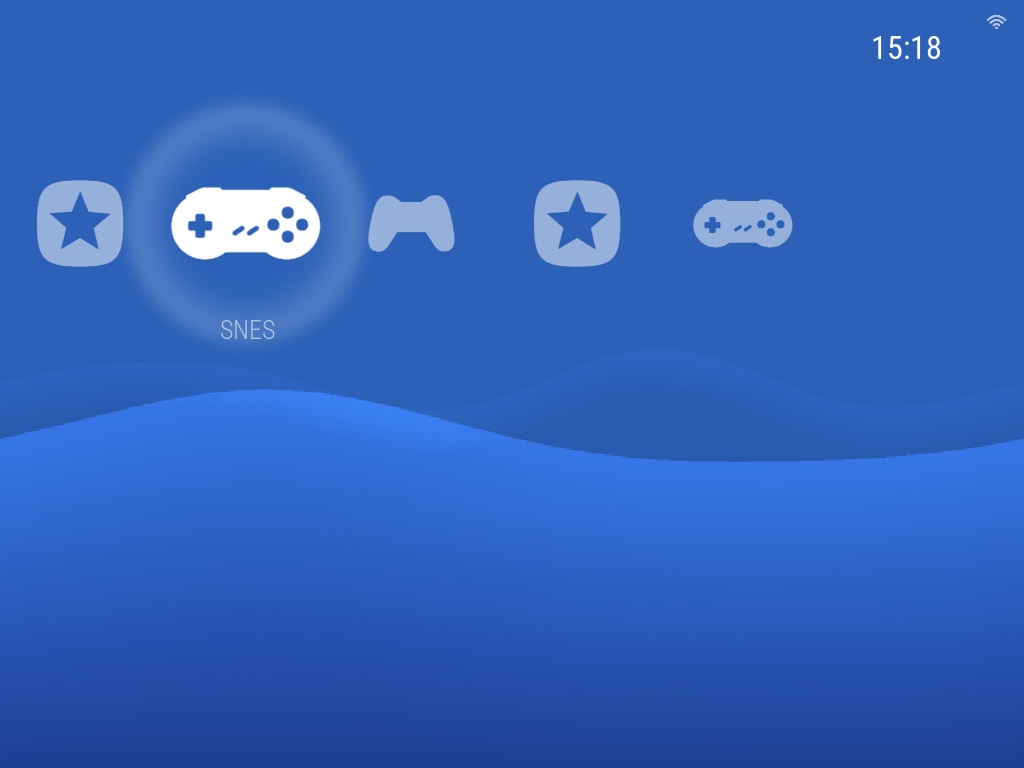
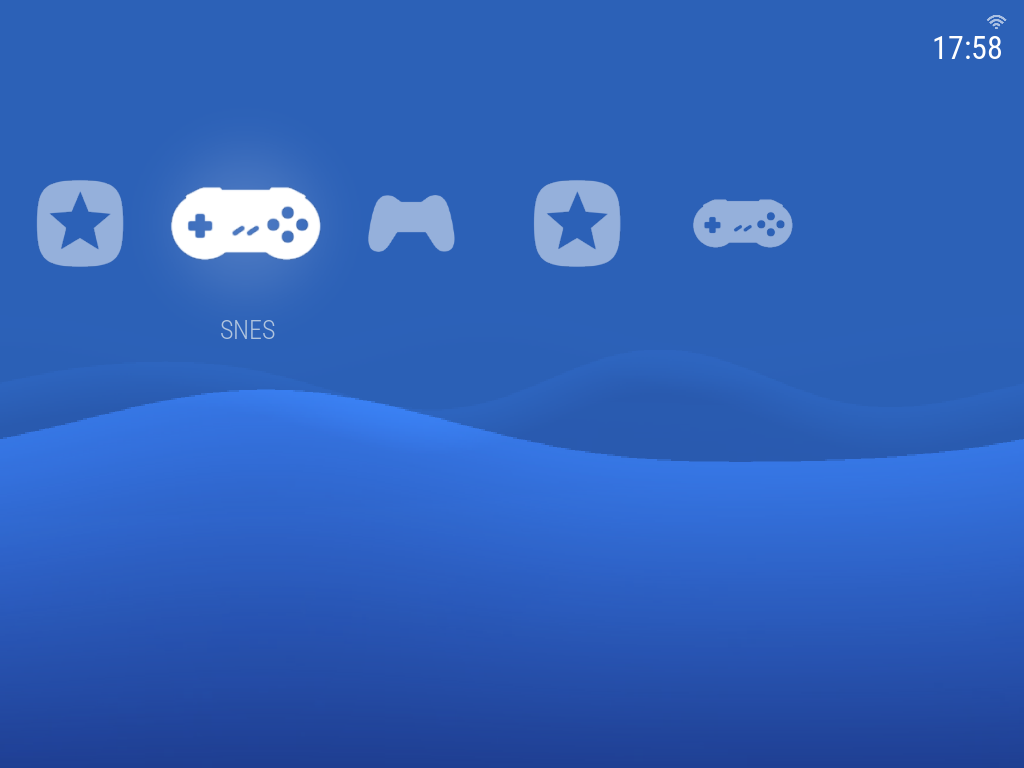
docs: v0.9.2 — screenshots use Battery: Hide for clean status bar
User feedback after v0.9.1 ship: 'In the screenshot for the system
carousel, there is still a gap where the battery info would go.'

The Docker harness can't render a battery (no battery hardware in
the container), so the default Battery: Show variant always leaves
an empty slot in the rendered status bar. Switched the README
screenshots to render with --battery Hide (clock shifts right to
fill the slot) and added a one-line italic note under the
Screenshots heading explaining the variant choice and pointing
readers to Customization for the full layout description.

Screenshots also pick up the v0.9.2 white-dot halo redesign — the
selected-icon glow now reads as a soft diffuse bloom rather than a
discrete ring.

diff --git a/README.md b/README.md
@@ -6,6 +6,8 @@ A PSP XMB-style theme for [batocera-emulationstation](https://github.com/batocer
 
 ## Screenshots
 
+> _Rendered with **Battery: Hide** (no battery slot). The default **Battery: Show** variant reserves room for the battery glyph on devices that report one — see Customization below._
+
 ### System view (XMB cross + system carousel)
 
 | 4:3 (1024×768) | 16:9 (1280×720) | 3:2 (720×480) | 1:1 (720×720) | 8:7 (1024×896) |
